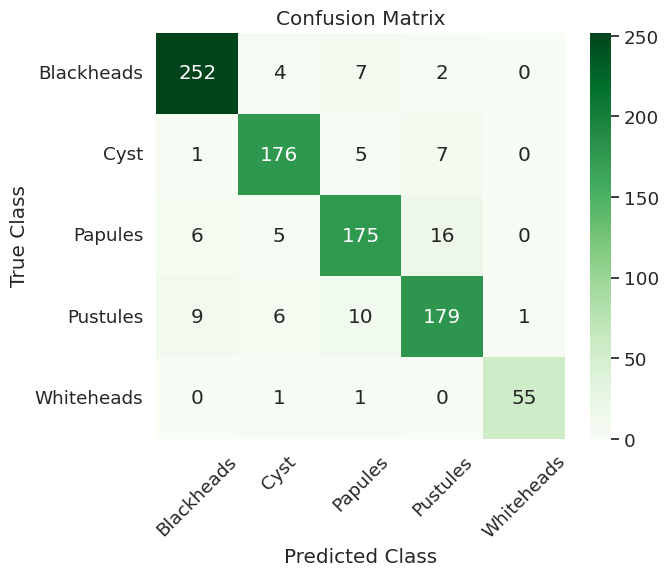
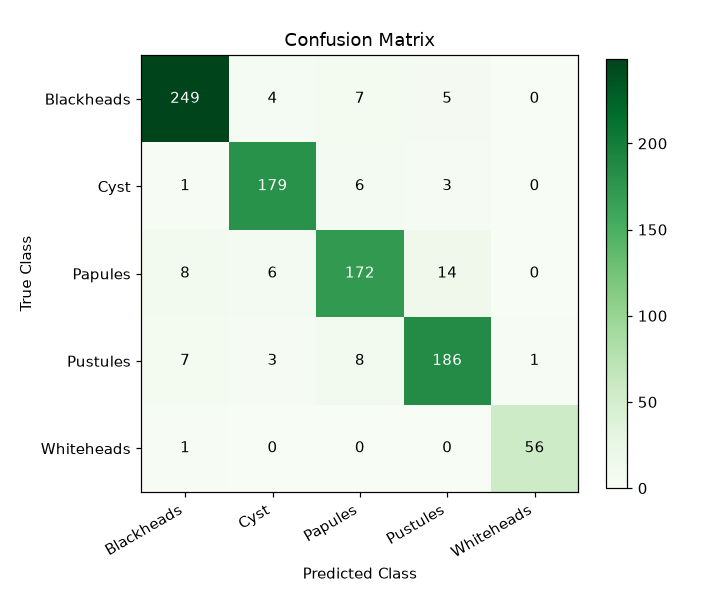
docs: retrain notebook + refresh Stage 2 graphs/metrics to the shipped model (#5)
The README section 2 graphs and numbers were from the Jul 6 run (best val
0.8979); regenerate them from the shipped 6-class model and its real history.

- Add notebooks/retrain_stage2_colab.ipynb — the Colab runbook (harvest
  negatives -> retrain -> acceptance checks), linked from section 2 as provenance.
- Confusion matrix + training curves re-rendered from the shipped model
  (models/classification/acne_model.keras) evaluated with the trainer's exact
  image_dataset_from_directory preprocessing.
- Metrics updated: best val acc 0.9193 (epoch 128), test acc 0.9172, macro F1
  0.93 on the five acne classes — no regression from adding Not_acne (only
  2/918 real crops misrouted). Per-class table and interpretation refreshed.

diff --git a/README.md b/README.md
@@ -27,7 +27,7 @@ Current run summary:
 
 ```text
 Stage 1 detector: YOLOv8m on ACNE04, F1=0.722 at conf=0.07 / IoU=0.2
-Stage 2 classifier: EfficientNetB0, 6 classes (5 acne types + Not_acne), test accuracy=91.18%, macro F1=0.92
+Stage 2 classifier: EfficientNetB0, 6 classes (5 acne types + Not_acne), test accuracy=91.72%, macro F1=0.93
 Not_acne reject:   99.7% of detector boxes on held-out clear-skin (FFHQ) faces
 Custom image test: 25 detections, all now classified Not_acne (was 16, all forced to Pustules)
 ```
@@ -107,7 +107,10 @@ checkpointing:  best validation accuracy
 input:          raw RGB 224x224 crops, pixel values 0-255
 ```
 
-Dataset split:
+Retrain provenance: [notebooks/retrain_stage2_colab.ipynb](notebooks/retrain_stage2_colab.ipynb) (Colab walkthrough: harvest `Not_acne` negatives → retrain → run the acceptance checks).
+
+Dataset split (five acne classes below; the `Not_acne` sixth class adds
+harvested crops, its train count held ≤ 735 = the largest acne class):
 
 ```text
 train: 2778 images
@@ -115,49 +118,51 @@ valid:  921 images
 test:   918 images
 ```
 
-Latest T4 result:
+Latest T4 result (6-class model; metrics on the five acne test classes):
 
 ```text
-best validation accuracy: 0.8979
-test loss: 0.4999
-test accuracy: 0.9118
-macro F1: 0.92
-weighted F1: 0.91
+best validation accuracy: 0.9193   (epoch 128 of 150)
+test accuracy:            0.9172
+macro F1:                 0.93
+weighted F1:              0.92
 ```
 
 Per-class test report:
 
 | Class | Precision | Recall | F1 | Support |
 |---|---:|---:|---:|---:|
-| Blackheads | 0.94 | 0.95 | 0.95 | 265 |
-| Cyst | 0.92 | 0.93 | 0.92 | 189 |
-| Papules | 0.88 | 0.87 | 0.88 | 202 |
-| Pustules | 0.88 | 0.87 | 0.88 | 205 |
-| Whiteheads | 0.98 | 0.96 | 0.97 | 57 |
+| Blackheads | 0.94 | 0.94 | 0.94 | 265 |
+| Cyst | 0.93 | 0.95 | 0.94 | 189 |
+| Papules | 0.89 | 0.85 | 0.87 | 202 |
+| Pustules | 0.89 | 0.91 | 0.90 | 205 |
+| Whiteheads | 0.98 | 0.98 | 0.98 | 57 |
 
-The table covers the five acne classes only (`Not_acne` rows excluded, per the
-negative-class design). Adding the sixth class did not regress them — macro F1
-holds at **0.92** (0.14-point change). `Not_acne` itself is measured by its
-reject rate: on a held-out FFHQ clear-skin sheet the detector never saw during
-negative harvesting, **99.7%** (382/383) of detector boxes are correctly
-classified `Not_acne`.
+The table covers the five acne classes only. Adding the sixth class did **not**
+regress them — macro F1 is **0.93** (was 0.92), and only **2 of 918** real-lesion
+test crops were misrouted to `Not_acne`. `Not_acne` is not in this test set (the
+dermatologist-boxed ACNE04 has no clear-skin crops), so it is measured by its
+reject rate instead: on a held-out FFHQ clear-skin sheet the detector never saw
+during harvesting, **99.7%** (382/383) of detector boxes are correctly classified
+`Not_acne`.
 
 Training curves:
 
 ![T4 training curves](assets/stage2_t4_training_curves.png)
 
-Confusion matrix:
+Confusion matrix (five acne classes; `Not_acne` measured by reject rate above):
 
 ![T4 confusion matrix](assets/stage2_t4_confusion_matrix.png)
 
 Interpretation:
 
-- The classifier is strongest on **Whiteheads** and **Blackheads** in this test
-  set.
-- **Papules** and **Pustules** are the hardest pair. That makes sense visually:
-  both are inflammatory-looking crops, and the distinction can be subtle.
-- The model should be treated as a crop-level type scorer, not a diagnosis.
-  Confidence is evidence for the crop label, not severity.
+- **Whiteheads** and **Cyst** are strongest here (F1 0.98 / 0.94). **Papules** is
+  the softest (recall 0.85), still mostly confused with **Pustules** — both are
+  inflammatory-looking crops, so the distinction stays subtle.
+- The sixth class was learned cleanly: the reject region did not eat into the
+  real classes (macro F1 rose 0.92 → 0.93; only 2/918 real crops misrouted to
+  `Not_acne`).
+- The model is a crop-level type scorer, not a diagnosis. Confidence is evidence
+  for the crop label, not severity.
 
 ---
 